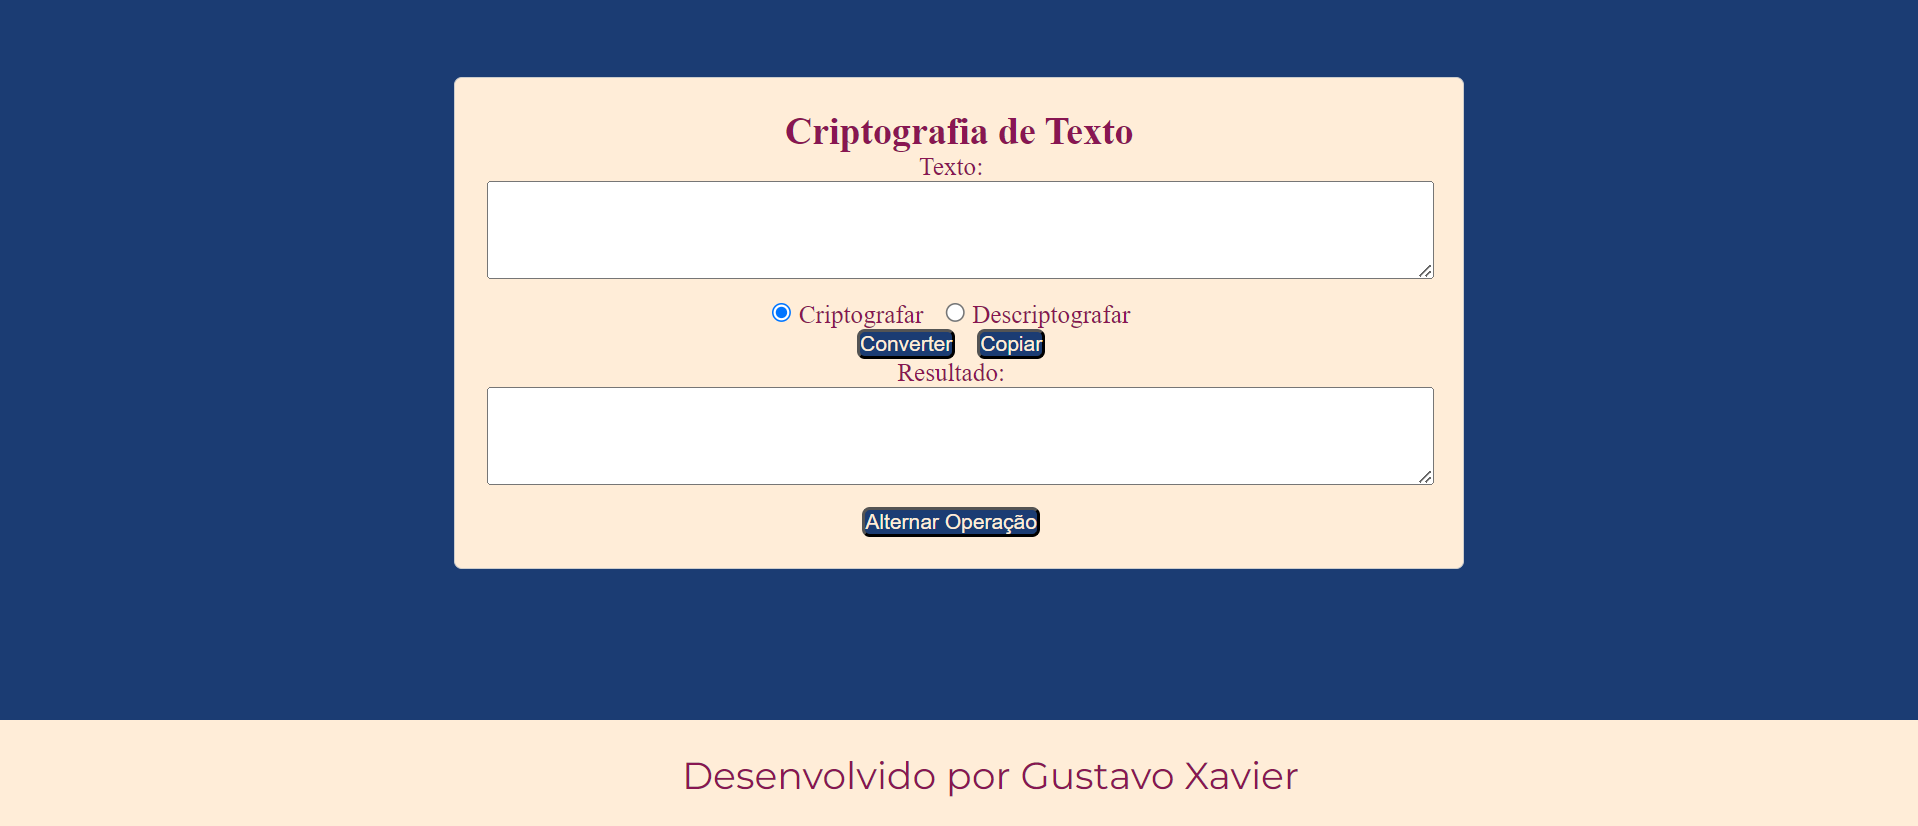
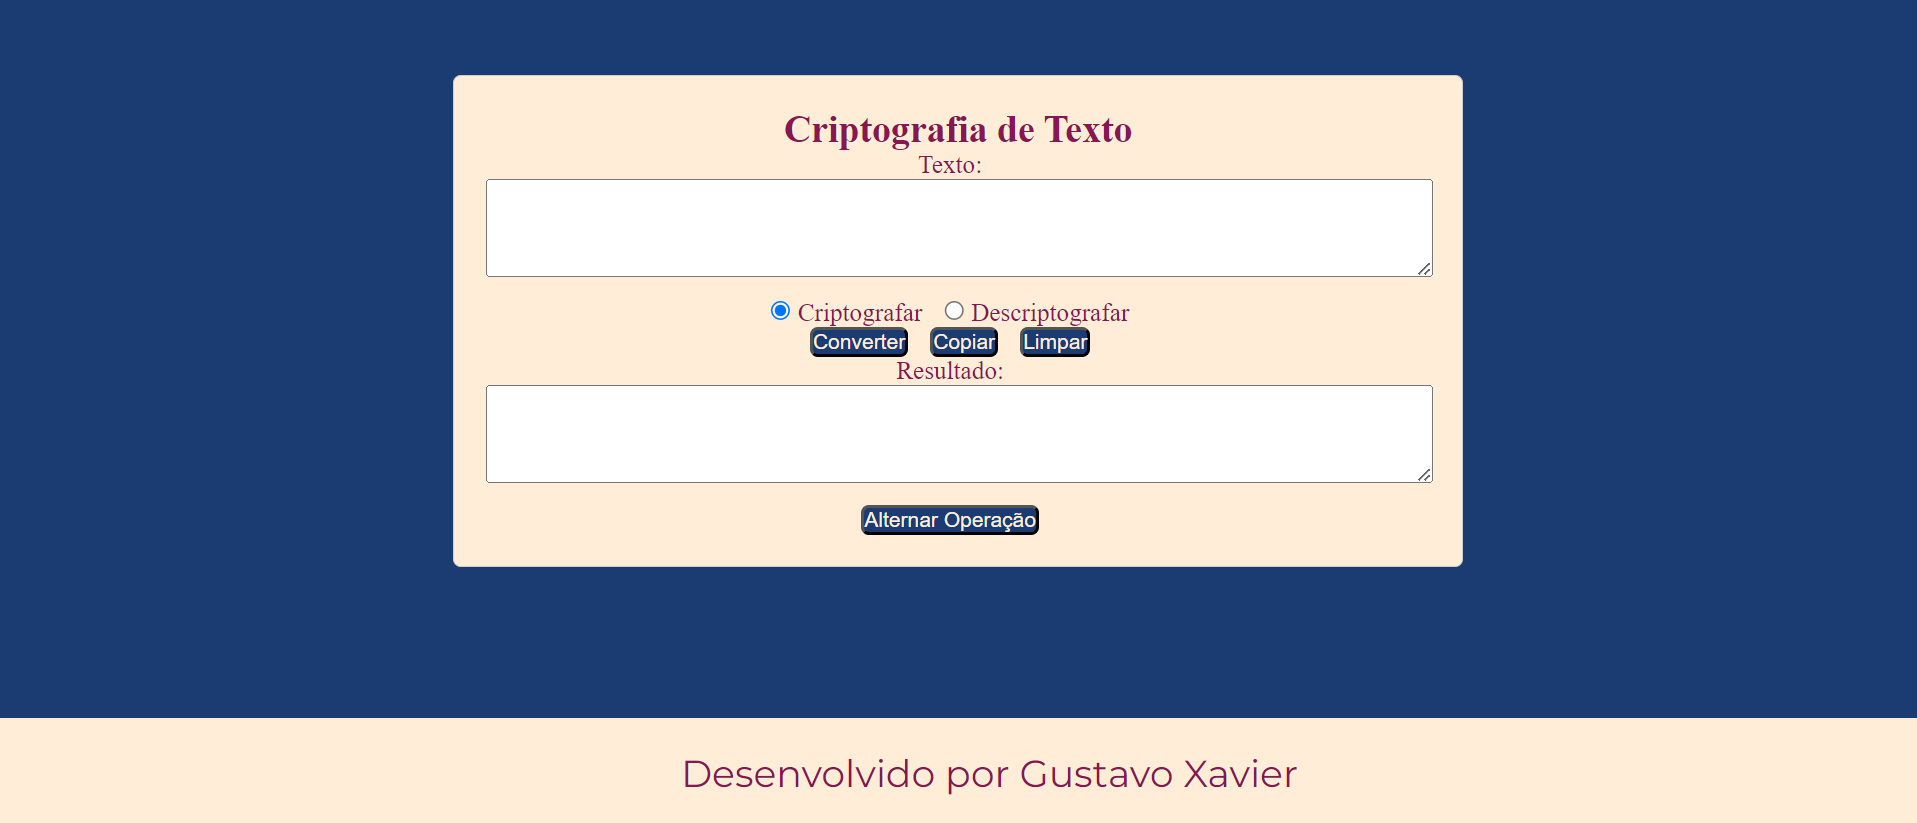
Projeto finalizado

diff --git a/script.js b/script.js
@@ -3,50 +3,55 @@ function converterTexto() {
     var operacao = document.querySelector('input[name="operacao"]:checked').value;
     var textoSaida = "";
   
-    if (operacao === "criptografar") {
-      textoSaida = criptografarTexto(textoEntrada);
-    } else {
-      textoSaida = descriptografarTexto(textoEntrada);
-    }
+        if (operacao === "criptografar") {
+            textoSaida = criptografarTexto(textoEntrada);
+            } else {
+            textoSaida = descriptografarTexto(textoEntrada);
+            }
+        
+            document.getElementById("output-text").value = textoSaida;
+}
   
-    document.getElementById("output-text").value = textoSaida;
-  }
-  
-  function criptografarTexto(texto) {
+function criptografarTexto(texto) {
     return texto.replace(/e/g, "enter")
                .replace(/i/g, "imes")
                .replace(/a/g, "ai")
                .replace(/o/g, "ober")
                .replace(/u/g, "ufat");
-  }
+}
   
-  function descriptografarTexto(texto) {
+function descriptografarTexto(texto) {
     return texto.replace(/enter/g, "e")
                .replace(/imes/g, "i")
                .replace(/ai/g, "a")
                .replace(/ober/g, "o")
                .replace(/ufat/g, "u");
-  }
+}
   
-  function copiarParaAreaTransferencia() {
+function copiarParaAreaTransferencia() {
     var textoSaida = document.getElementById("output-text");
     textoSaida.select();
     document.execCommand("copy");
     alert("Texto copiado para a área de transferência!");
-  }
+}
   
-  function alternarOperacao() {
+function alternarOperacao() {
     var radios = document.getElementsByName("operacao");
-    for (var i = 0; i < radios.length; i++) {
-      if (radios[i].checked) {
-        radios[i].checked = false;
-        if (i + 1 < radios.length) {
-          radios[i + 1].checked = true;
-        } else {
-          radios[0].checked = true;
+        for (var i = 0; i < radios.length; i++) {
+        if (radios[i].checked) {
+            radios[i].checked = false;
+            if (i + 1 < radios.length) {
+            radios[i + 1].checked = true;
+            } else {
+            radios[0].checked = true;
+            }
+            break;
         }
-        break;
-      }
     }
+}
+
+function limparCampos() {
+    document.getElementById("input-text").value = "";
+    document.getElementById("output-text").value = "";
   }
   

diff --git a/index.html b/index.html
@@ -6,25 +6,31 @@
   <title>Texto Criptografado</title>
   <link rel="stylesheet" href="style.css">
 </head>
-<body>
-  <div class="container">
-    <h2>Criptografia de Texto</h2>
-    <label for="input-text">Texto:</label>
-    <textarea id="input-text" rows="4" cols="50"></textarea>
-    <div>
-      <input type="radio" id="criptografar" name="operacao" value="criptografar" checked>
-      <label for="criptografar">Criptografar</label>
-      <input type="radio" id="descriptografar" name="operacao" value="descriptografar">
-      <label for="descriptografar">Descriptografar</label>
-    </div>
-    <button onclick="converterTexto()">Converter</button>
-    <button onclick="copiarParaAreaTransferencia()">Copiar</button>
-    <div>
-      <label for="output-text">Resultado:</label>
-      <textarea id="output-text" rows="4" cols="50" readonly></textarea>
-    </div>
-    <button onclick="alternarOperacao()">Alternar Operação</button>
-  </div>
-  <script src="script.js"></script>
-</body>
+<main>
+    <body>
+        <div class="caixa">
+            <h2>Criptografia de Texto</h2>
+            <label for="input-text">Texto:</label>
+            <textarea id="input-text" rows="4" cols="50"></textarea>
+            <div>
+                <input type="radio" id="criptografar" name="operacao" value="criptografar" checked>
+                <label for="criptografar">Criptografar</label>
+                <input type="radio" id="descriptografar" name="operacao" value="descriptografar">
+                <label for="descriptografar">Descriptografar</label>
+            </div>
+            <button onclick="converterTexto()">Converter</button>
+            <button onclick="copiarParaAreaTransferencia()">Copiar</button>
+            <button onclick="limparCampos()">Limpar</button>
+            <div>
+                <label for="output-text">Resultado:</label>
+                <textarea id="output-text" rows="4" cols="50" readonly></textarea>
+            </div>
+            <button onclick="alternarOperacao()">Alternar Operação</button>
+        </div>
+    <script src="script.js"></script>
+    </body>
+</main>
+<footer>
+    Desenvolvido por Gustavo Xavier
+</footer>
 </html>

diff --git a/style.css b/style.css
@@ -19,7 +19,7 @@ body {
     background-color: var(--cor-primaria);
 }
 
-.container {
+.caixa {
     background-color: var(--cor-secundaria);
     max-width: 600px;
     margin: 50px auto;
@@ -28,32 +28,32 @@ body {
     border-radius: 5px;
     text-align: center;
     color: var(--cor-terciaria);
-  }
+}
   
-  textarea {
+textarea {
     width: 100%;
     margin-bottom: 10px;
     color: var(--cor-terciaria);
-  }
+}
   
-  button {
+button {
     margin-right: 10px;
     background-color: var(--cor-primaria);
     color: var(--cor-secundaria);
     border-radius: 5px;
-  }
+}
   
-  button:hover {
+button:hover {
     background-color: var(--cor-hover);
     transform: scale(1.2);
 }
 
 
-  label {
+label {
     margin-right: 10px;
-  }
+}
   
-  footer {
+footer {
     position: fixed;
     bottom: 0;
     left: 0;
